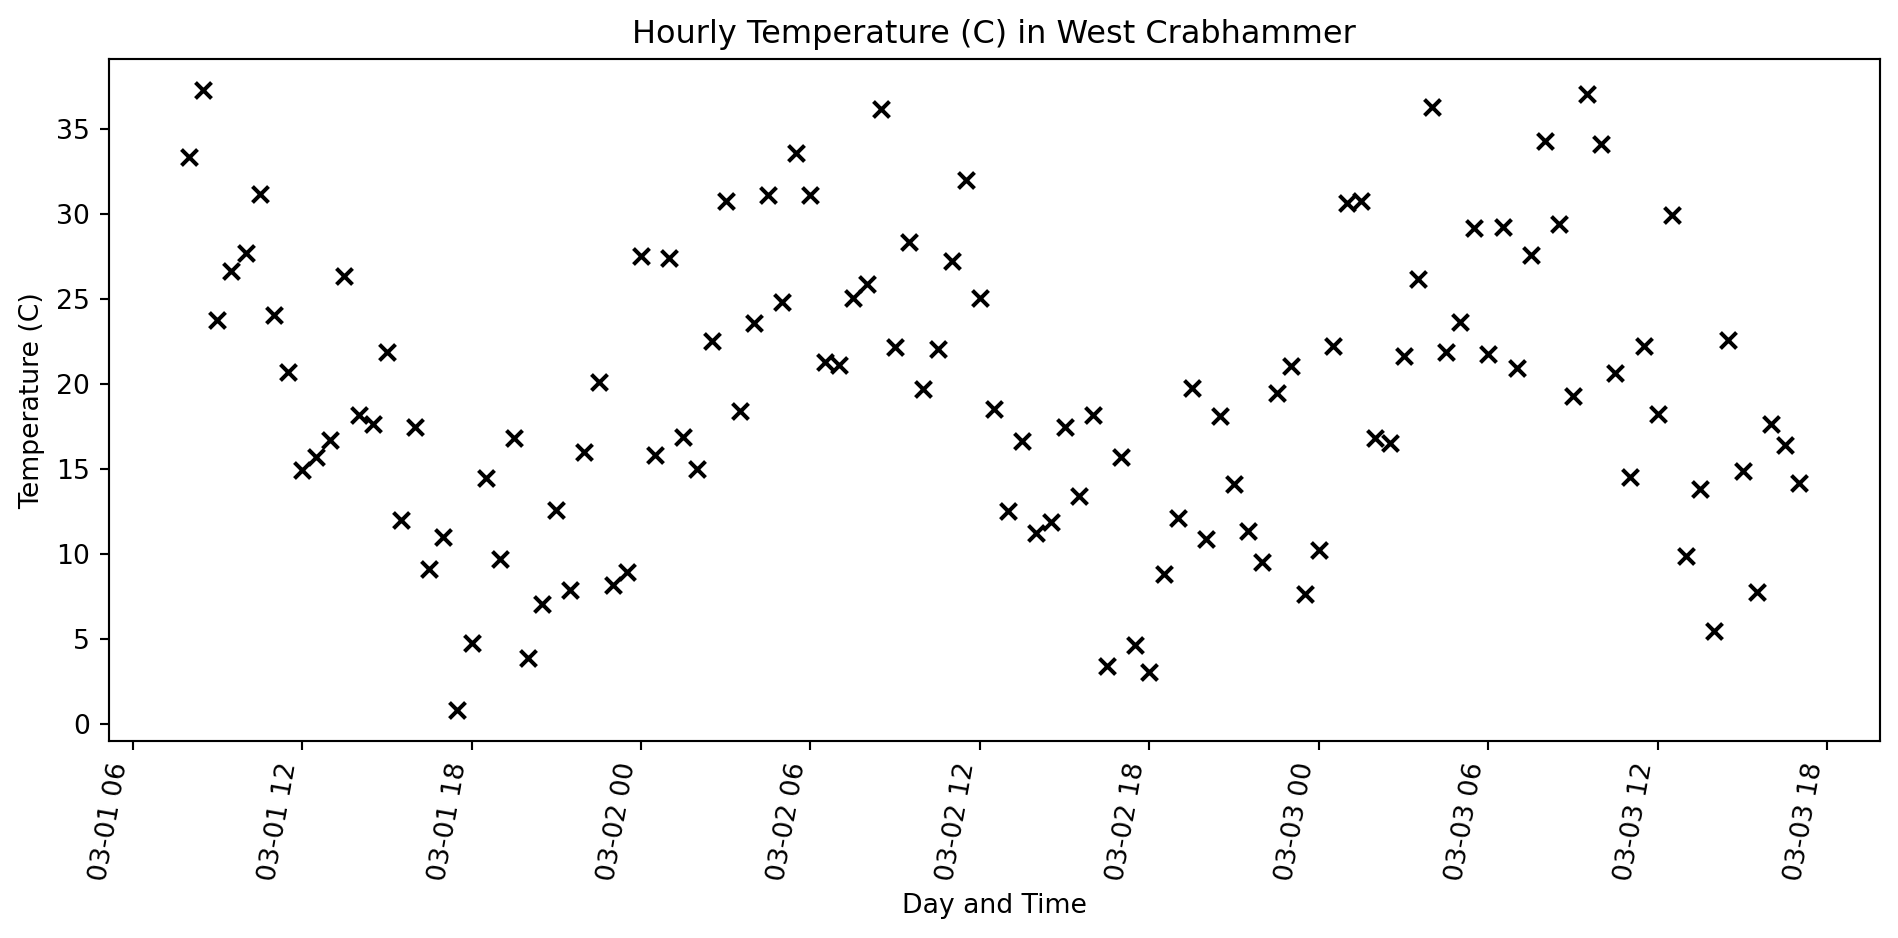
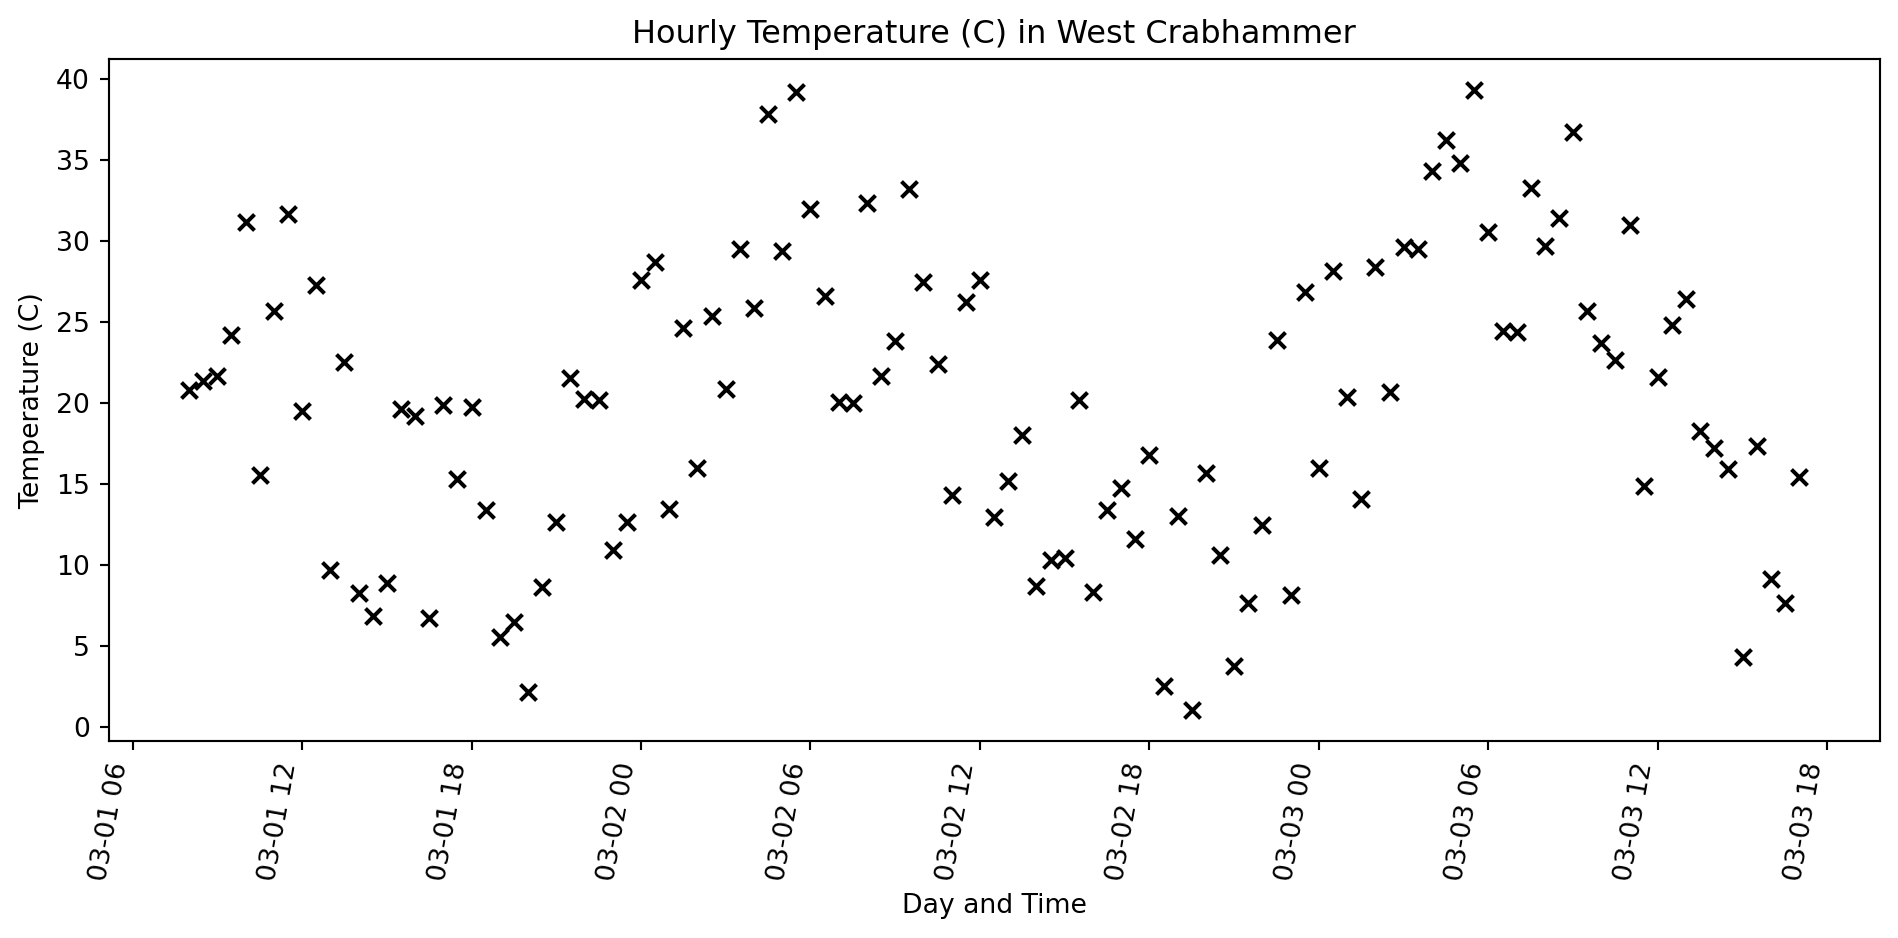
changed

diff --git a/docs/python_geospatial_basics.html b/docs/python_geospatial_basics.html
@@ -293,7 +293,7 @@
 <section id="basic-numbers" class="slide level2">
 <h2>Basic Numbers</h2>
 <p>Floats and Ints don’t do anything all that surprising</p>
-<div id="dd865b7b" class="cell columns column-output-location" data-execution_count="1">
+<div id="4e755b04" class="cell columns column-output-location" data-execution_count="1">
 <div class="column">
 <div class="sourceCode cell-code" id="cb5"><pre class="sourceCode numberSource python number-lines code-with-copy"><code class="sourceCode python"><span id="cb5-1"><a></a>a <span class="op">=</span> <span class="dv">2</span> <span class="op">+</span> <span class="dv">2</span></span>
 <span id="cb5-2"><a></a>b <span class="op">=</span> <span class="fl">2.0</span> <span class="op">+</span> <span class="fl">2.0</span></span>
@@ -320,7 +320,7 @@ but 5 // 4 is 1</code></pre>
 <section id="sequences" class="slide level2">
 <h2>Sequences</h2>
 <p>Lists, tuples, and strings ae all sequences</p>
-<div id="90e0c6ac" class="cell columns column-output-location" data-execution_count="2">
+<div id="72435381" class="cell columns column-output-location" data-execution_count="2">
 <div class="column">
 <div class="sourceCode cell-code" id="cb7"><pre class="sourceCode numberSource python number-lines code-with-copy"><code class="sourceCode python"><span id="cb7-1"><a></a><span class="co"># a list</span></span>
 <span id="cb7-2"><a></a>a_list <span class="op">=</span> [<span class="dv">1</span>, <span class="dv">2</span>, <span class="dv">3</span>, <span class="dv">4</span>, <span class="dv">5</span>, <span class="dv">6</span>, <span class="dv">7</span>, <span class="dv">8</span>, <span class="dv">9</span>]</span>
@@ -367,7 +367,7 @@ neushorn?</code></pre>
 </section>
 <section id="dictionaries" class="slide level2">
 <h2>Dictionaries</h2>
-<div id="0c6e9aa0" class="cell columns column-output-location" data-execution_count="3">
+<div id="28714043" class="cell columns column-output-location" data-execution_count="3">
 <div class="column">
 <div class="sourceCode cell-code" id="cb9"><pre class="sourceCode numberSource python number-lines code-with-copy"><code class="sourceCode python"><span id="cb9-1"><a></a>pets <span class="op">=</span> {<span class="st">'honden'</span>: <span class="dv">26</span>, <span class="st">'katten'</span>: <span class="dv">100</span>}</span>
 <span id="cb9-2"><a></a></span>
@@ -386,7 +386,7 @@ neushorn?</code></pre>
 </section>
 <section id="iterating" class="slide level2">
 <h2>Iterating</h2>
-<div id="7a3581db" class="cell columns column-output-location" data-execution_count="4">
+<div id="e59fbd35" class="cell columns column-output-location" data-execution_count="4">
 <div class="column">
 <div class="sourceCode cell-code" id="cb11"><pre class="sourceCode numberSource python number-lines code-with-copy"><code class="sourceCode python"><span id="cb11-1"><a></a>a <span class="op">=</span> [<span class="dv">1</span>, <span class="dv">2</span>, <span class="dv">3</span>, <span class="dv">4</span>, <span class="dv">5</span>, <span class="dv">6</span>, <span class="dv">7</span>, <span class="dv">8</span>, <span class="dv">9</span>]</span>
 <span id="cb11-2"><a></a></span>
@@ -417,7 +417,7 @@ is the same as
 <li class="fragment">can return something</li>
 <li class="fragment">have there own scope</li>
 </ul>
-<div id="3c458c4e" class="cell columns column-output-location" data-execution_count="5">
+<div id="01dea467" class="cell columns column-output-location" data-execution_count="5">
 <div class="column">
 <div class="sourceCode cell-code" id="cb13"><pre class="sourceCode numberSource python number-lines code-with-copy"><code class="sourceCode python"><span id="cb13-1"><a></a><span class="im">import</span> numpy <span class="im">as</span> np</span>
 <span id="cb13-2"><a></a></span>
@@ -439,7 +439,7 @@ is the same as
 </div>
 </div></div>
 <p>They do nat have to have arguments or return stuff.</p>
-<div id="a08ae18b" class="cell columns column-output-location" data-execution_count="6">
+<div id="226387fb" class="cell columns column-output-location" data-execution_count="6">
 <div class="column">
 <div class="sourceCode cell-code" id="cb15"><pre class="sourceCode numberSource python number-lines code-with-copy"><code class="sourceCode python"><span id="cb15-1"><a></a><span class="kw">def</span> complain():</span>
 <span id="cb15-2"><a></a>  <span class="bu">print</span>(<span class="st">'This is boring!</span><span class="ch">\n</span><span class="st">when will we get to the GIS stuff.</span><span class="ch">\n\U0001F620\U0001F620\U0001F620\n\n</span><span class="st">Soon! Bear with me.'</span>)</span>
@@ -458,7 +458,7 @@ Soon! Bear with me.</code></pre>
 <section id="pandas-dataframe" class="slide level2 smaller scrollable">
 <h2>Pandas DataFrame</h2>
 <p>DataFrames hold tabular data</p>
-<div id="641db23b" class="cell" data-execution_count="7">
+<div id="75475f72" class="cell" data-execution_count="7">
 <div class="sourceCode cell-code" id="cb17"><pre class="sourceCode numberSource python number-lines code-with-copy"><code class="sourceCode python"><span id="cb17-1"><a></a><span class="im">from</span> datetime <span class="im">import</span> datetime, timedelta</span>
 <span id="cb17-2"><a></a><span class="im">from</span> random <span class="im">import</span> uniform</span>
 <span id="cb17-3"><a></a><span class="im">import</span> matplotlib.pyplot <span class="im">as</span> plt</span>
@@ -521,27 +521,27 @@ Soon! Bear with me.</code></pre>
 <tr class="odd">
 <td data-quarto-table-cell-role="th">0</td>
 <td>2025-03-01 08:00:00</td>
-<td>33.334896</td>
+<td>20.822971</td>
 </tr>
 <tr class="even">
 <td data-quarto-table-cell-role="th">1</td>
 <td>2025-03-01 08:30:00</td>
-<td>37.281232</td>
+<td>21.355508</td>
 </tr>
 <tr class="odd">
 <td data-quarto-table-cell-role="th">2</td>
 <td>2025-03-01 09:00:00</td>
-<td>23.745863</td>
+<td>21.660765</td>
 </tr>
 <tr class="even">
 <td data-quarto-table-cell-role="th">3</td>
 <td>2025-03-01 09:30:00</td>
-<td>26.608055</td>
+<td>24.204850</td>
 </tr>
 <tr class="odd">
 <td data-quarto-table-cell-role="th">4</td>
 <td>2025-03-01 10:00:00</td>
-<td>27.661670</td>
+<td>31.176576</td>
 </tr>
 </tbody>
 </table>
@@ -552,7 +552,7 @@ Soon! Bear with me.</code></pre>
 </section>
 <section id="pandas-dataframe-cont." class="slide level2 scrollable">
 <h2>Pandas DataFrame Cont.</h2>
-<div id="c9ead02d" class="cell columns column-output-location" data-execution_count="8">
+<div id="098c2a0d" class="cell columns column-output-location" data-execution_count="8">
 <div class="column">
 <div class="sourceCode cell-code" id="cb18"><pre class="sourceCode numberSource python number-lines code-with-copy"><code class="sourceCode python"><span id="cb18-1"><a></a>fig, ax <span class="op">=</span> plt.subplots()</span>
 <span id="cb18-2"><a></a></span>
@@ -581,17 +581,17 @@ Soon! Bear with me.</code></pre>
 </div>
 </div>
 </div></div>
-<div id="24184784" class="cell columns column-output-location" data-execution_count="9">
+<div id="0ab9f438" class="cell columns column-output-location" data-execution_count="9">
 <div class="column">
 <div class="sourceCode cell-code" id="cb19"><pre class="sourceCode numberSource python number-lines code-with-copy"><code class="sourceCode python"><span id="cb19-1"><a></a><span class="co"># get the mean temperature over the timeseries</span></span>
 <span id="cb19-2"><a></a>df[<span class="st">'T (C)'</span>].mean()</span></code><button title="Copy to Clipboard" class="code-copy-button"><i class="bi"></i></button></pre></div>
 </div><div class="column">
 <div class="cell-output cell-output-display" data-execution_count="9">
-<pre><code>np.float64(19.365825039143065)</code></pre>
+<pre><code>np.float64(20.006243001184192)</code></pre>
 </div>
 </div></div>
 <p>When there are no spaces in a column name you can access the column as an attribute of the datafame.</p>
-<div id="1293b85e" class="cell columns column-output-location" data-execution_count="10">
+<div id="2205df5f" class="cell columns column-output-location" data-execution_count="10">
 <div class="column">
 <div class="sourceCode cell-code" id="cb21"><pre class="sourceCode numberSource python number-lines code-with-copy"><code class="sourceCode python"><span id="cb21-1"><a></a><span class="co"># get the number of time stamps in the date_time column</span></span>
 <span id="cb21-2"><a></a>df.date_time.count()</span></code><button title="Copy to Clipboard" class="code-copy-button"><i class="bi"></i></button></pre></div>
@@ -605,15 +605,16 @@ Soon! Bear with me.</code></pre>
 <section id="homework" class="slide level2 smaller scrollable non-incremental">
 <h2>Homework</h2>
 <p>If you are choosing Python as you language in this course (and what we have covered today is not a peace of cake for you already), create a jupyter notebook and do the following:</p>
+<div class="{non-incremental}">
 <ul>
 <li class="fragment">Download the results from the class survey from <a href="https://docs.google.com/spreadsheets/d/17qg3d2N1WmE3cIoz5SGpP2AGesVNmaZTwu4ljIRii4U/edit?usp=sharing">here</a> as a csv file.</li>
 <li class="fragment">Read the csv into a Pandas DataFrame (Hint: use the <code>read_csv()</code> method).</li>
 <li class="fragment">The headers are a mess! Change the column names to be reasonable.
 <ul>
-<li class="fragment">Remember, if you want to be able to access the data as an attribute, the column names need to not have spaces in them. For example you can get a column like this `df.aarvark_count</li>
 <li class="fragment">Hint: <em>columns</em> is a mutable attribute of the dataframe so <code>df.columns = some_list_of_the_correct_length</code> will assign new column names.</li>
 </ul></li>
 </ul>
+</div>
 <p>If you are only going the R route, do the above, but in R. (Hints Below.)</p>
 <ul>
 <li class="fragment">data &lt;- read.csv(“my_data.csv”)</li>
@@ -656,7 +657,7 @@ Soon! Bear with me.</code></pre>
 </section>
 <section id="polygon" class="slide level2">
 <h2>Polygon</h2>
-<div id="ac8a88b6" class="cell columns column-output-location" data-execution_count="11">
+<div id="f7bd98ef" class="cell columns column-output-location" data-execution_count="11">
 <div class="column">
 <div class="sourceCode cell-code" id="cb23"><pre class="sourceCode numberSource python number-lines code-with-copy"><code class="sourceCode python"><span id="cb23-1"><a></a><span class="im">from</span> shapely <span class="im">import</span> Polygon</span>
 <span id="cb23-2"><a></a></span>
@@ -683,7 +684,7 @@ Soon! Bear with me.</code></pre>
 <section id="reading-files" class="slide level2">
 <h2>Reading Files</h2>
 <p>Here we will read a geojson using the <code>read_file</code> method.</p>
-<div id="0e33d077" class="cell columns column-output-location" data-execution_count="12">
+<div id="b9d0f312" class="cell columns column-output-location" data-execution_count="12">
 <div class="column">
 <div class="sourceCode cell-code" id="cb25"><pre class="sourceCode numberSource python number-lines code-with-copy"><code class="sourceCode python"><span id="cb25-1"><a></a><span class="im">from</span> pathlib <span class="im">import</span> Path</span>
 <span id="cb25-2"><a></a><span class="im">import</span> geopandas <span class="im">as</span> gpd</span>
